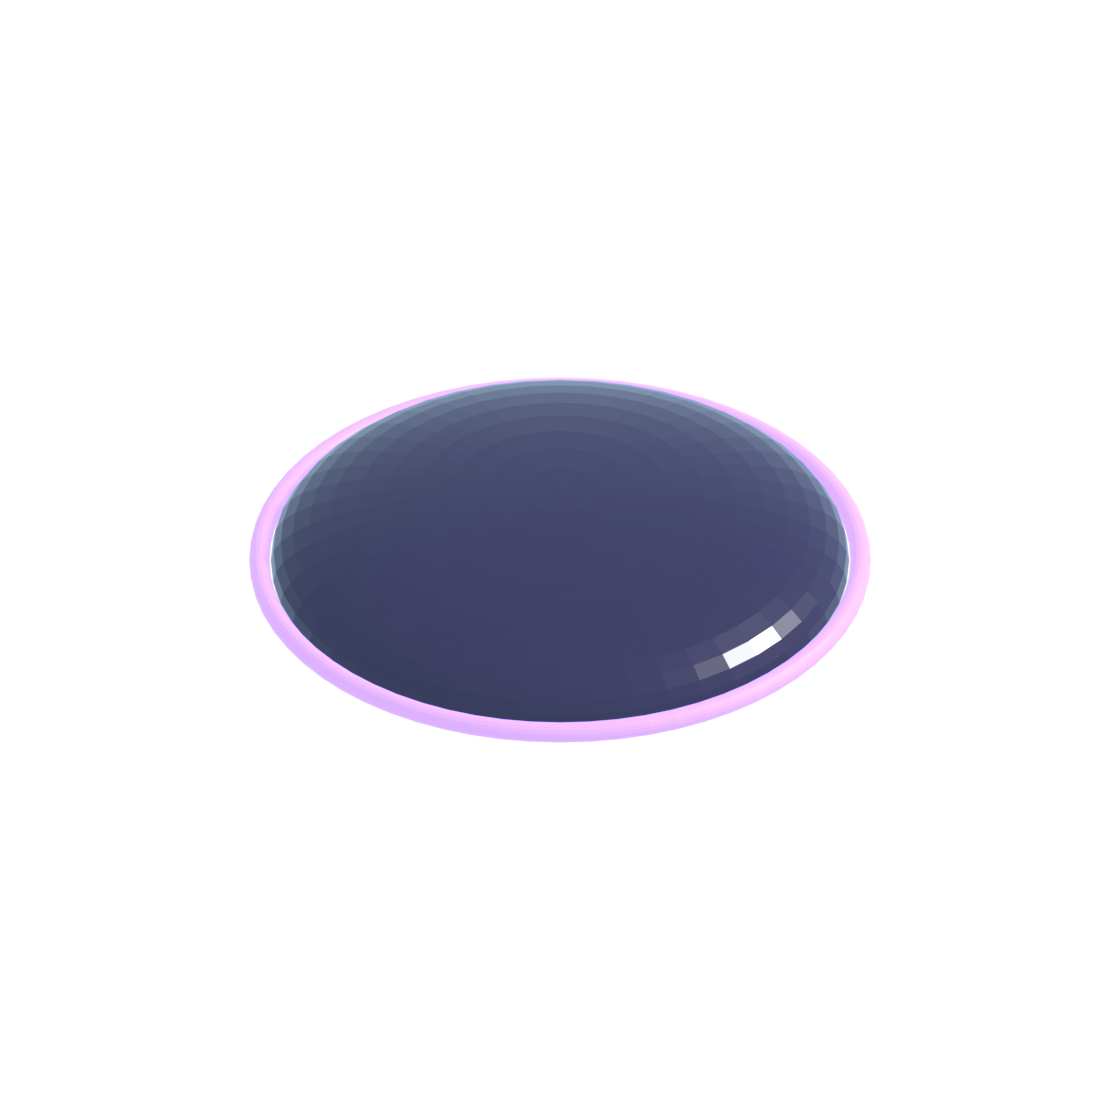
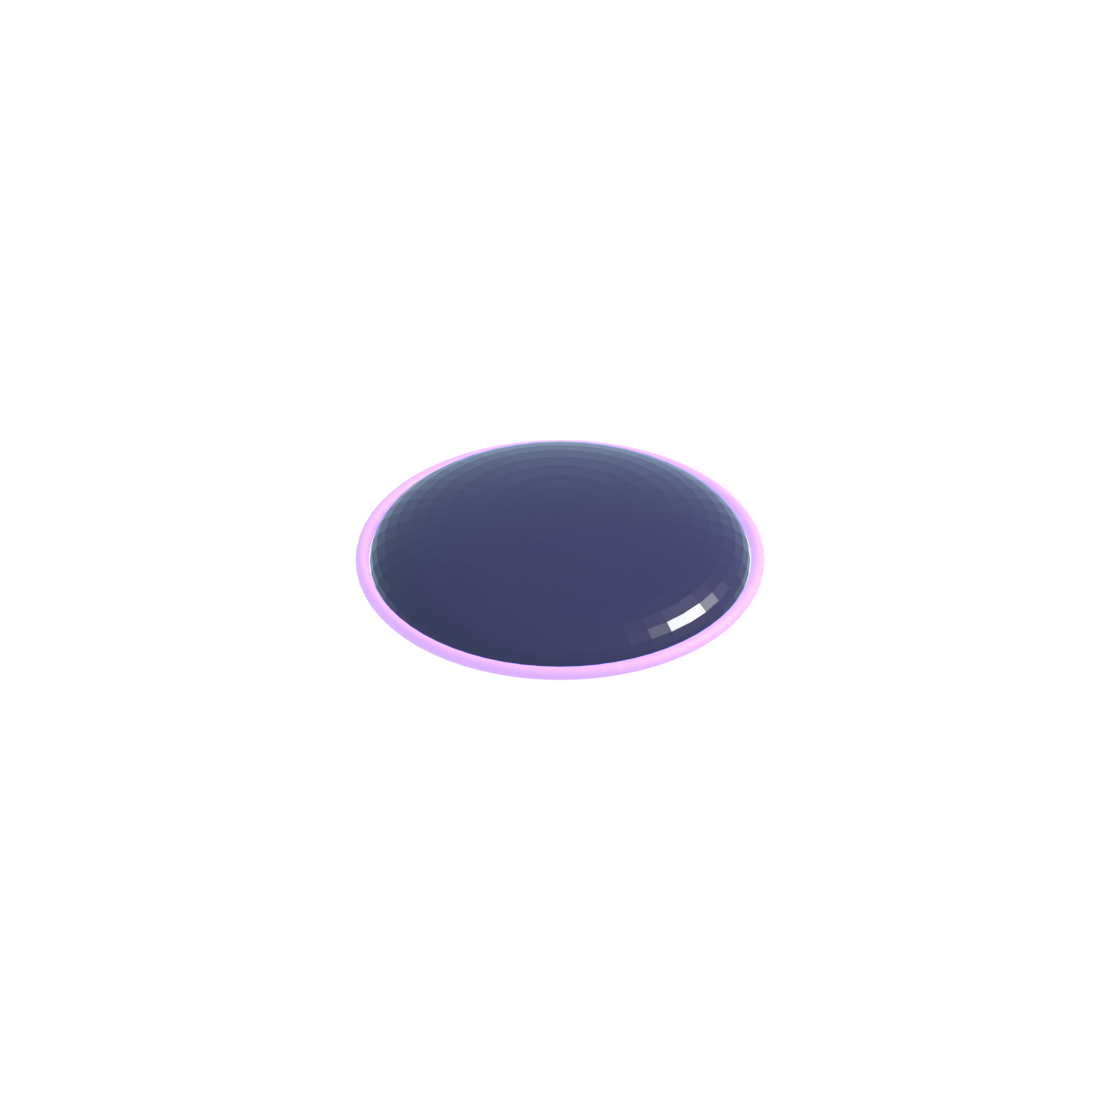
fix(home): make the hero read smaller inside its authored frame
The hero was larger than the reference proportion. The obvious fix -- shrinking
the `HeroBlackHole` node -- is not available: `test_home_layout_contract.mjs` pins
`HOME_LAYOUT` to the design contract, so changing it would break a gate rather
than fix a page. The frame is 360x360 and stays 360x360; the hero now reads
smaller *within* it by rendering with more margin around the same geometry.

The entry cards turned out not to need the same treatment: they are authored
160x112, aspect 1.43, and the composed card art is 320x224, also 1.43, so they
already fit without cropping or stretch.

Verified on the running page: the hole sits on the street with a thin rim and no
longer covers the block.

Changed region(s): [[0.2188, 0.3125, 0.7812, 0.6875]]

diff --git a/art-source/blender/render_home_assets.py b/art-source/blender/render_home_assets.py
@@ -94,7 +94,7 @@ def build_hero():
     everything = add_black_hole(0.0, 0.0, 1.35, (0.36, 0.18, 0.98))
     bpy.context.view_layer.update()
     report('hero bounds', world_bounds(everything))
-    frame_camera(world_bounds(everything), 560, 560, margin=1.25)
+    frame_camera(world_bounds(everything), 560, 560, margin=1.9)
     light_scene((0.55, 0.78, 1.0))
     render('home_hero_blackhole.png', 560, 560)
 
